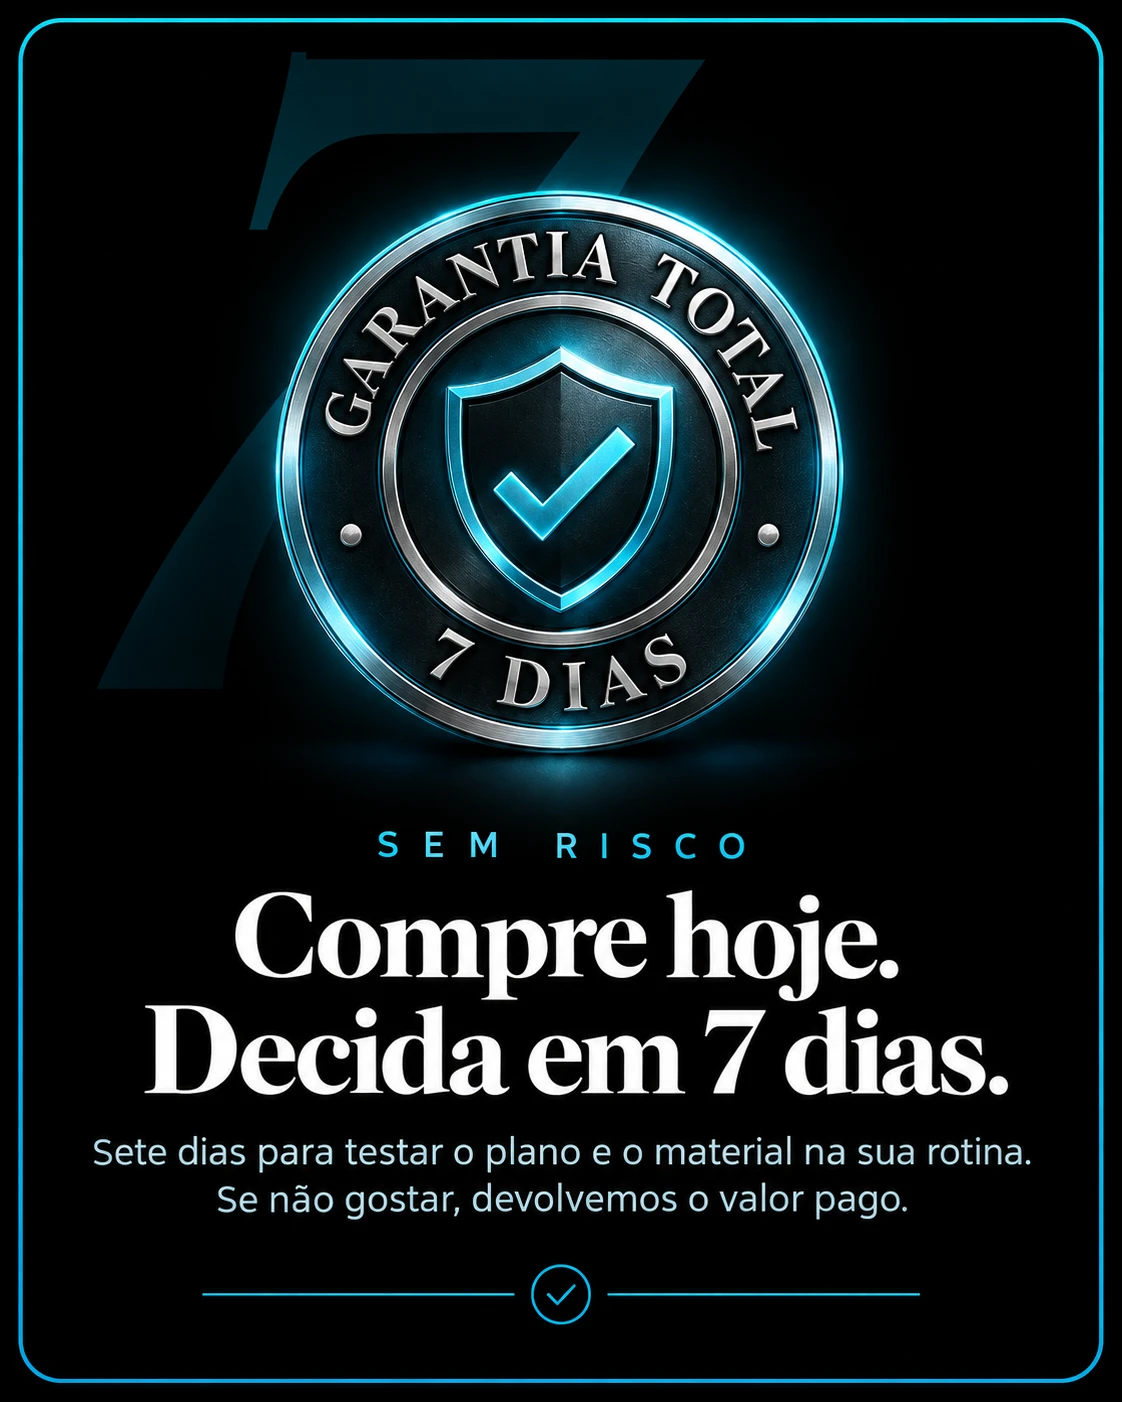
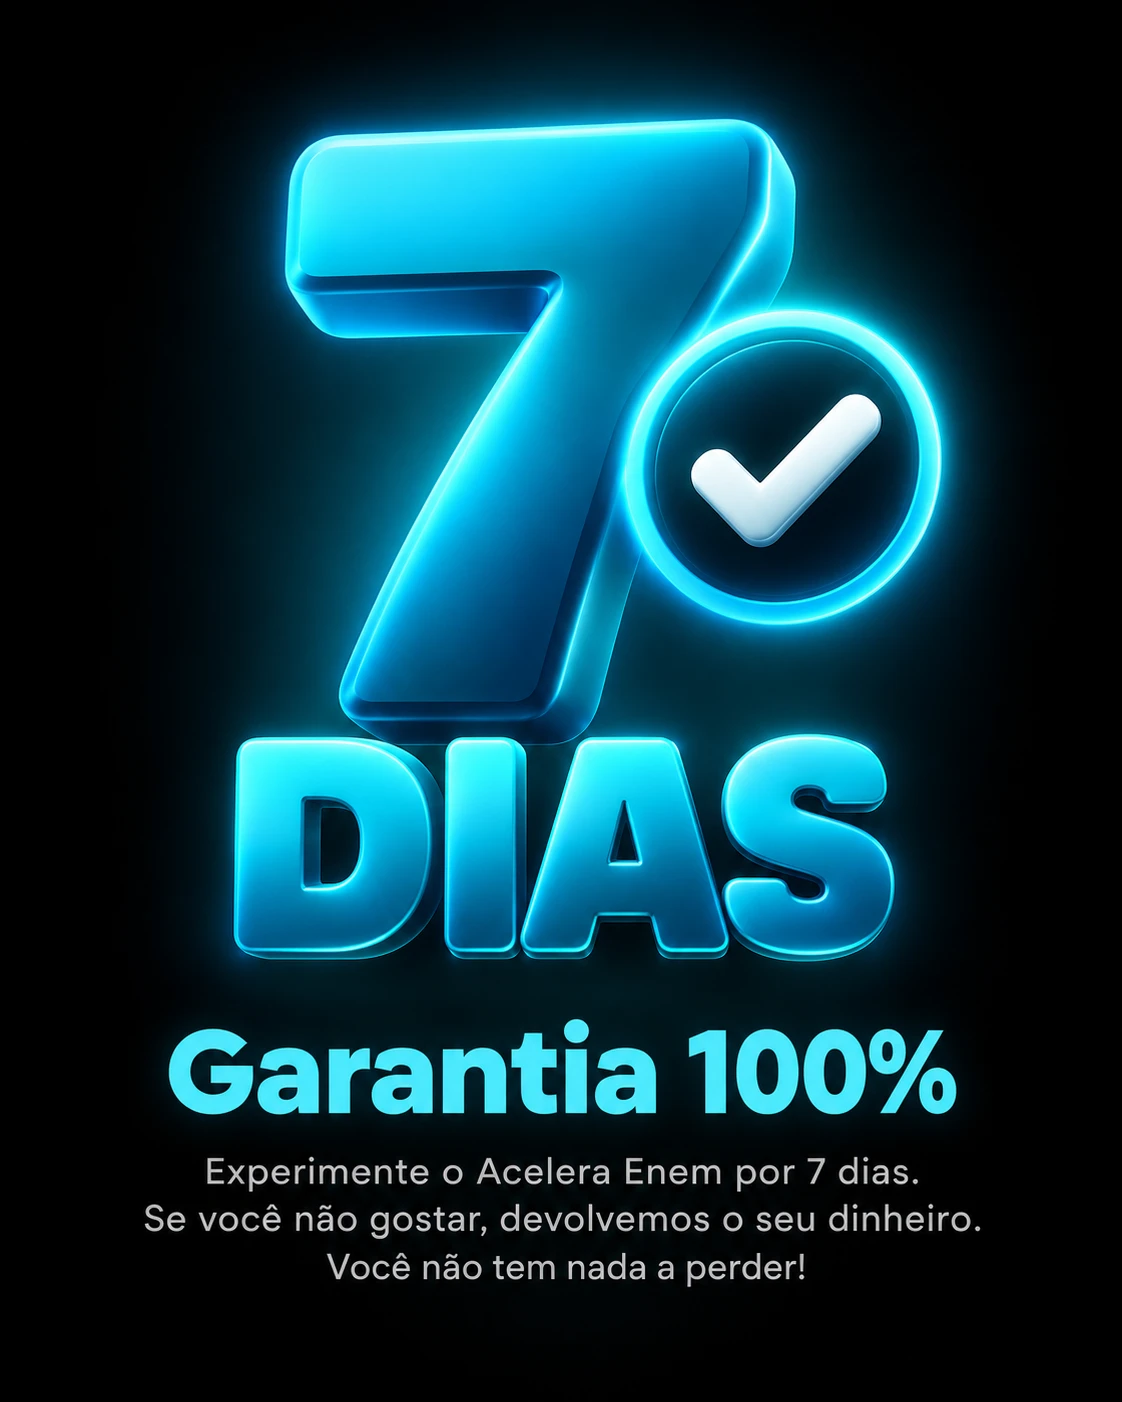
Quiz 2 escuro: nova imagem de garantia de 7 dias (azul e ciano)
Claude-Session: https://claude.ai/code/session_016oanMoqSLwB8wD9WTYZ31H

diff --git a/quiz2/index.html b/quiz2/index.html
@@ -480,7 +480,7 @@ const RENDER = {
           <div class="pc-nota">Garantia incondicional de 7 dias · Acesso imediato<br>Compra 100% segura · Todas as bandeiras</div>
         </div>
       </div>
-      <img class="garantia-img" src="/img/garantia-7-dias${SUF_IMG}.webp" alt="Garantia total de 7 dias: compre hoje e decida em 7 dias" loading="lazy" style="display:block;width:100%;height:auto;border-radius:16px;margin:16px 0 4px;" onerror="this.remove()">
+      <img class="garantia-img" src="/img/garantia-7-dias${SUF_IMG}.webp${SUF_IMG?"?v=2":""}" alt="Garantia total de 7 dias: compre hoje e decida em 7 dias" loading="lazy" style="display:block;width:100%;height:auto;border-radius:16px;margin:16px 0 4px;" onerror="this.remove()">
     </div></div>`;
   },
 
